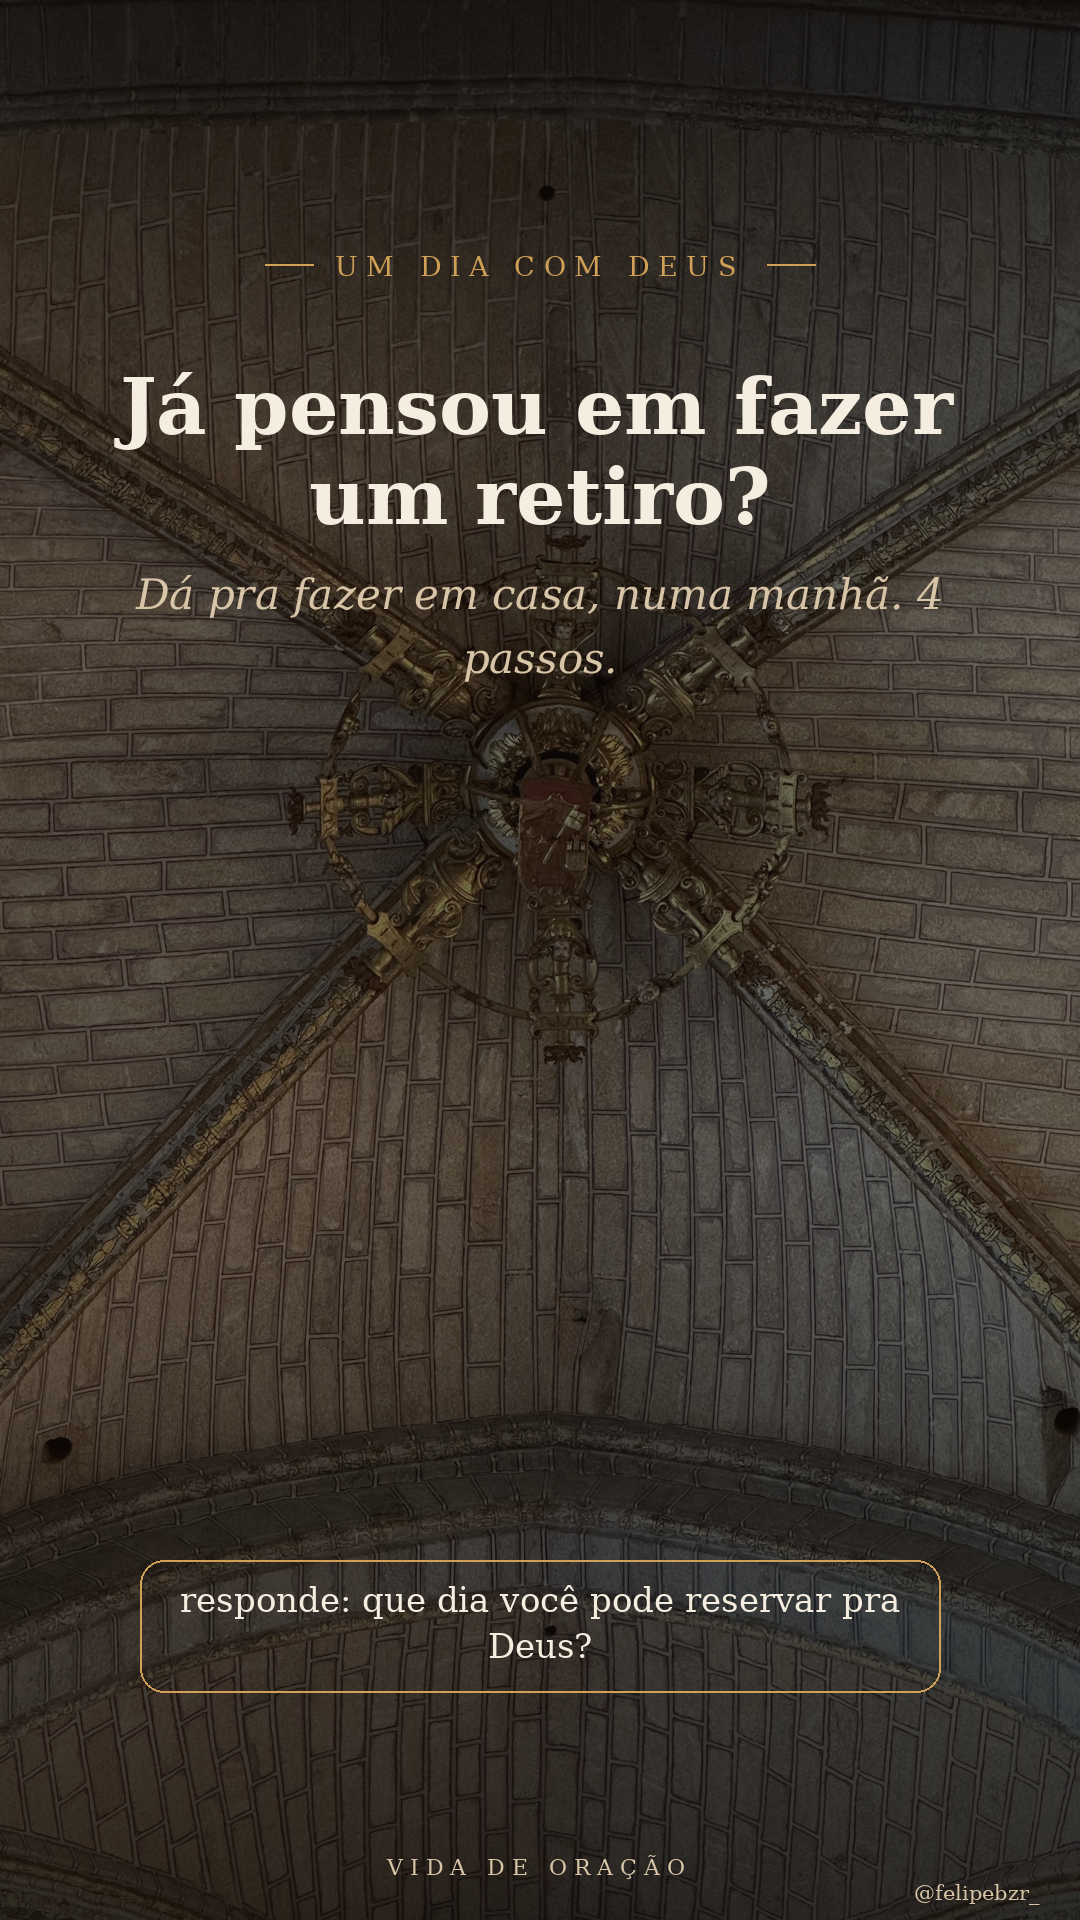
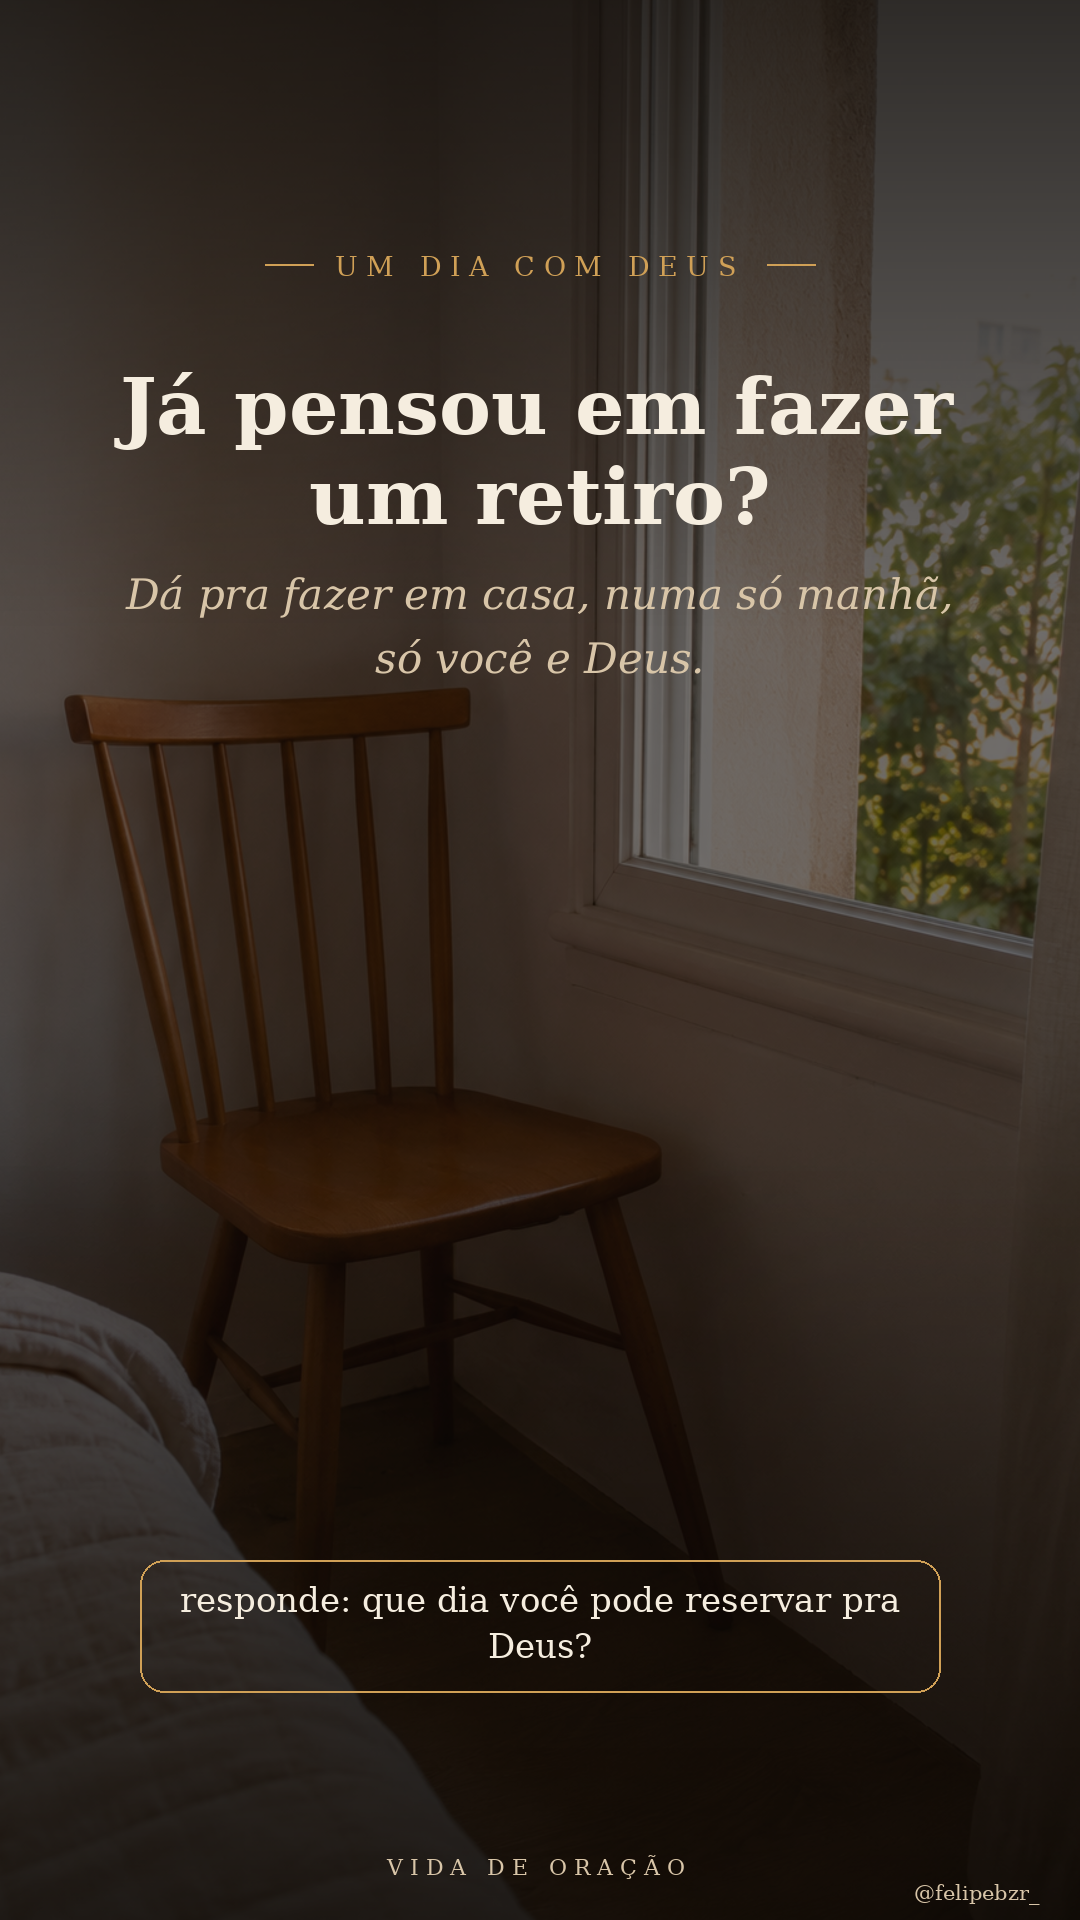
atualizacao de conteudo 2026-08-09 15:35:59.79

diff --git a/api-setup/poster_stories.py b/api-setup/poster_stories.py
@@ -61,7 +61,7 @@ CAL_S = {
     "2026-08-24": ("d7_story1.png", "d7_story2.png", "lote-ago3-fundo"),
     "2026-08-25": ("d1_story1.png", "d1_story2.png", "lote-ago4-vida"),
     "2026-08-26": ("d2_story1.png", "d2_story2.png", "lote-ago4-vida"),
-    "2026-08-27": ("d3_story2.png", "d3_story1.png", "lote-ago4-vida"),  # swap: manha standalone; tarde (offender) cita infografico "4 passos"
+    "2026-08-27": ("d3_story1.png", "d3_story2.png", "lote-ago4-vida"),  # d3_story1 refeito self-contained (sem tease "4 passos"); ordem natural
     "2026-08-28": ("d4_story1.png", "d4_story2.png", "lote-ago4-vida"),
     "2026-08-29": ("d5_story1.png", "d5_story2.png", "lote-ago4-vida"),
     "2026-08-30": ("d6_story2.png", "d6_story1.png", "lote-ago4-vida"),  # swap: manha standalone; tarde (offender) cita infografico
